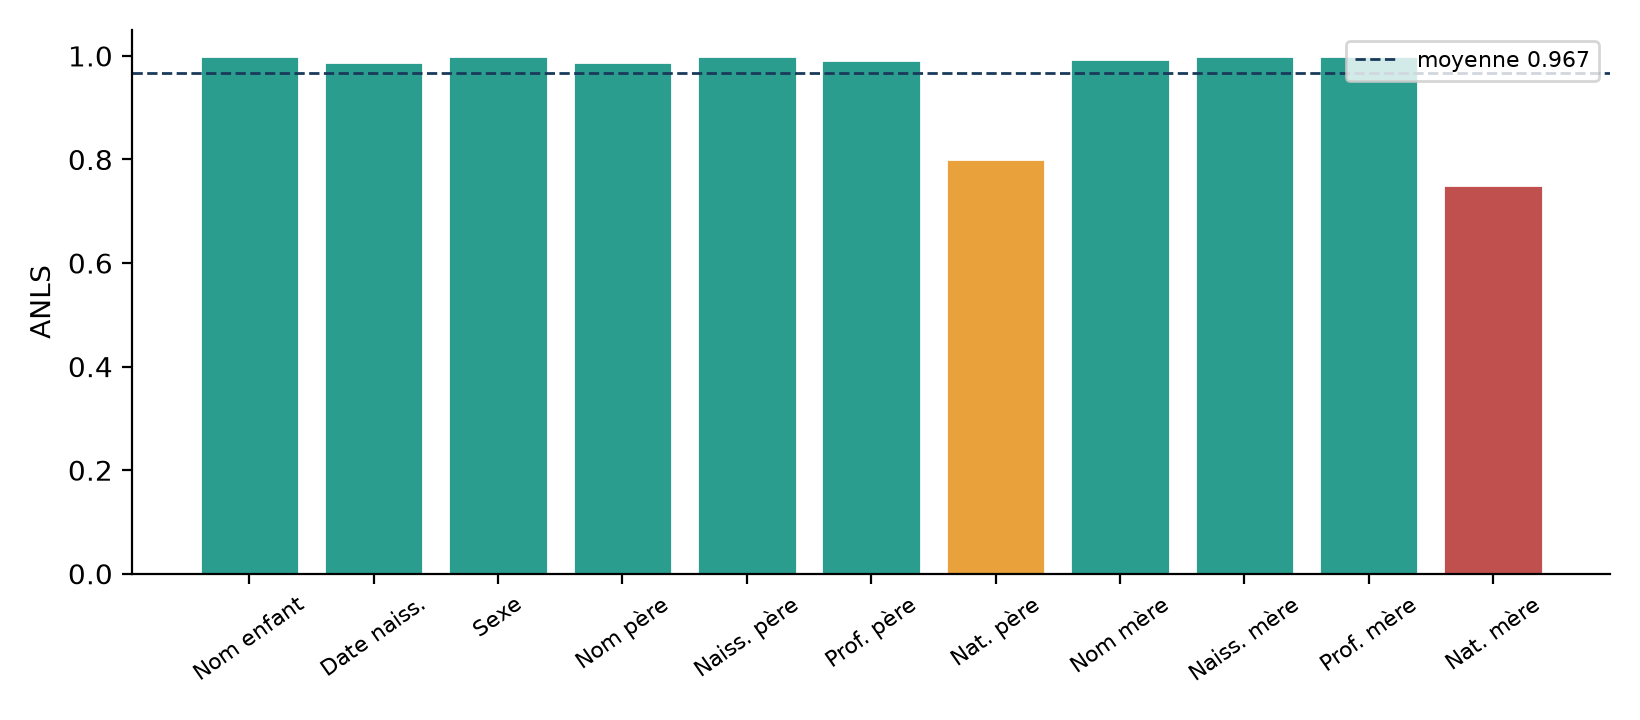
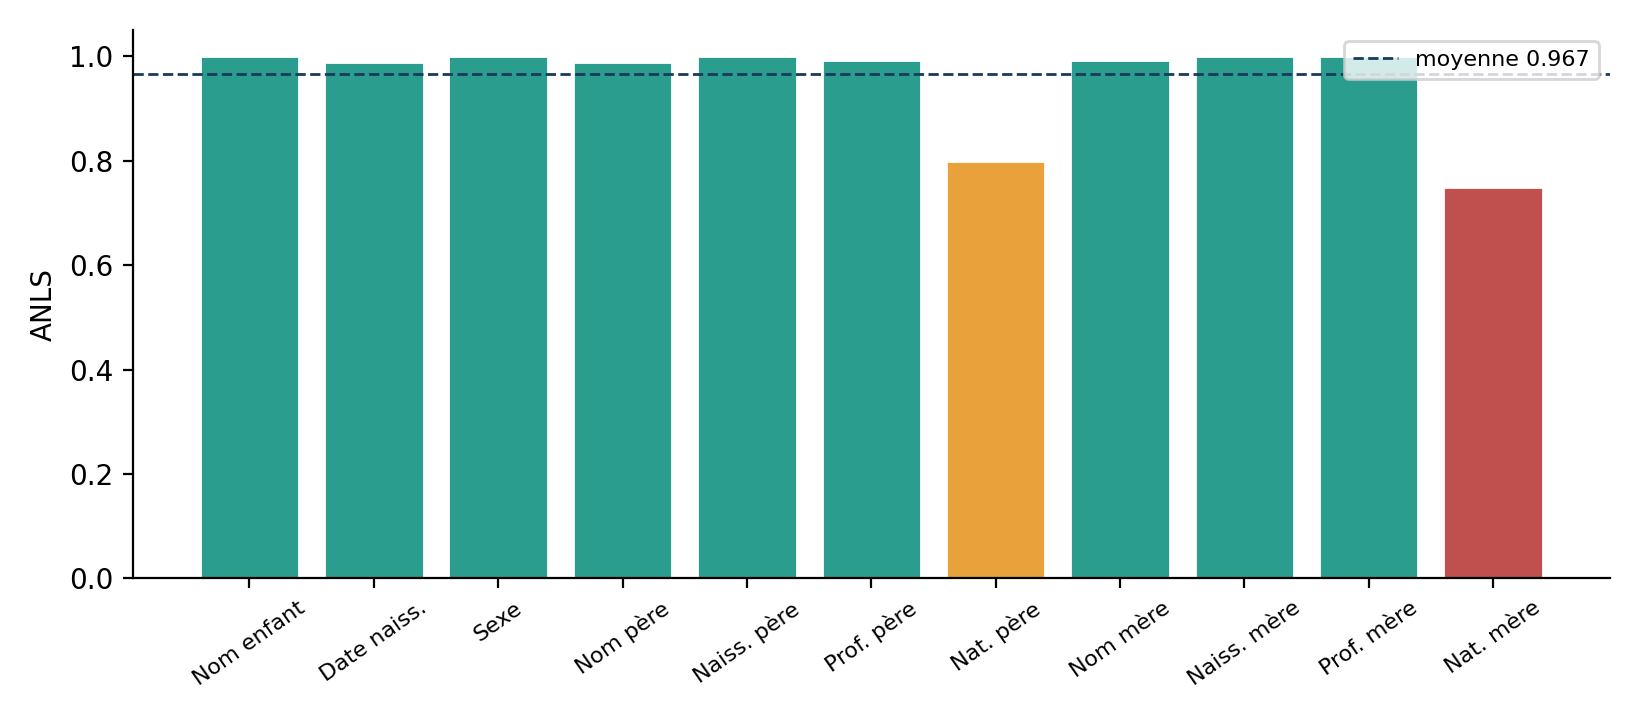
Fill in the host organisation and supervisor, and cut the report to 32 pages

diff --git a/tools/build_report_figures.py b/tools/build_report_figures.py
@@ -243,30 +243,23 @@ def fig_honesty_gate() -> str:
 
 
 def fig_orgchart() -> str:
-    """Placement of the intern in the host organisation.
-
-    Names are placeholders on purpose: inventing an organisation chart would
-    put unverifiable claims in a document a supervisor signs.
-    """
+    """Placement of the intern in the host organisation (EY Tunisie)."""
     b = [DEFS]
-    b.append(box(280, 30, 240, 50, "Organisme d'accueil", fill=LIGHT, stroke=NAVY,
-                 sub="[à compléter]", bold=True))
-    b.append(arrow(400, 80, 400, 108))
-    b.append(box(280, 110, 240, 50, "Département / Practice", fill="white",
-                 stroke=BLUE, sub="[à compléter]", bold=True))
-    b.append(f'<line x1="400" y1="160" x2="400" y2="185" stroke="{BLUE}" stroke-width="1.8"/>')
-    b.append(f'<line x1="170" y1="185" x2="630" y2="185" stroke="{BLUE}" stroke-width="1.8"/>')
-    for x, title, sub in [(60, "Équipe projet", "[à compléter]"),
-                          (290, "Encadrant entreprise", "[nom à compléter]"),
-                          (520, "Autres équipes", "[à compléter]")]:
-        b.append(f'<line x1="{x + 110}" y1="185" x2="{x + 110}" y2="210" stroke="{BLUE}" stroke-width="1.8"/>')
-        b.append(box(x, 212, 220, 50, title, fill="white", stroke=GREY, sub=sub, size=12))
-    b.append(arrow(400, 262, 400, 292))
-    b.append(box(280, 294, 240, 52, "Stagiaire ingénieur", fill=LIGHT, stroke=TEAL,
-                 sub="Ghassen Bousselem", bold=True))
-    b.append(label(20, 375, "Les mentions « à compléter » doivent être renseignées avant "
-                            "remise : elles ne peuvent pas être devinées.", 11, RED))
-    return svg(800, 395, "\n".join(b))
+    chain = [
+        ("EY Tunisie", "AMC Ernst & Young, Tunis", LIGHT, NAVY),
+        ("Technology, Strategy & Transformation", "practice TST", "white", BLUE),
+        ("Technology consulting", "équipe de conseil technologique", "white", BLUE),
+        ("Mariem Abcha", "Assistant Manager, encadrante", "white", GREY),
+        ("Ghassen Bousselem", "stagiaire ingénieur", LIGHT, TEAL),
+    ]
+    y = 20
+    for i, (title, sub, fill, stroke) in enumerate(chain):
+        b.append(box(220, y, 360, 52, title, fill=fill, stroke=stroke,
+                     sub=sub, bold=True))
+        if i < len(chain) - 1:
+            b.append(arrow(400, y + 52, 400, y + 76))
+        y += 76
+    return svg(800, y - 10, "\n".join(b))
 
 
 def fig_gantt() -> str:
